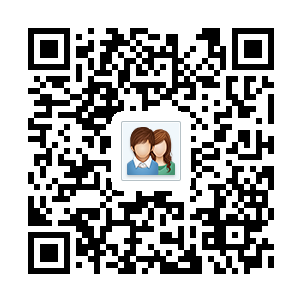
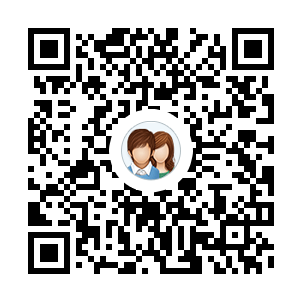
180207

diff --git a/page/4about.md b/page/4about.md
@@ -9,7 +9,7 @@ icon: heart
 {:toc}
 
 ### 关注我们
-ESAP达摩院QQ群号：[275205931](http://shang.qq.com/wpa/qunwpa?idkey=8065d28ea0b39649052de5d2aeab377014d268a5a9fa7463d4873b205233aaff)<<点击加入
+ESAP达摩院QQ群号：[365159025](http://shang.qq.com/wpa/qunwpa?idkey=130e97346aa11da4690999c9c91e3350e8673cb9c8fcf5df7c8f11d78ee73522)<<点击加入
 
 ![](/img/qqq.png)<<扫描加入
 
